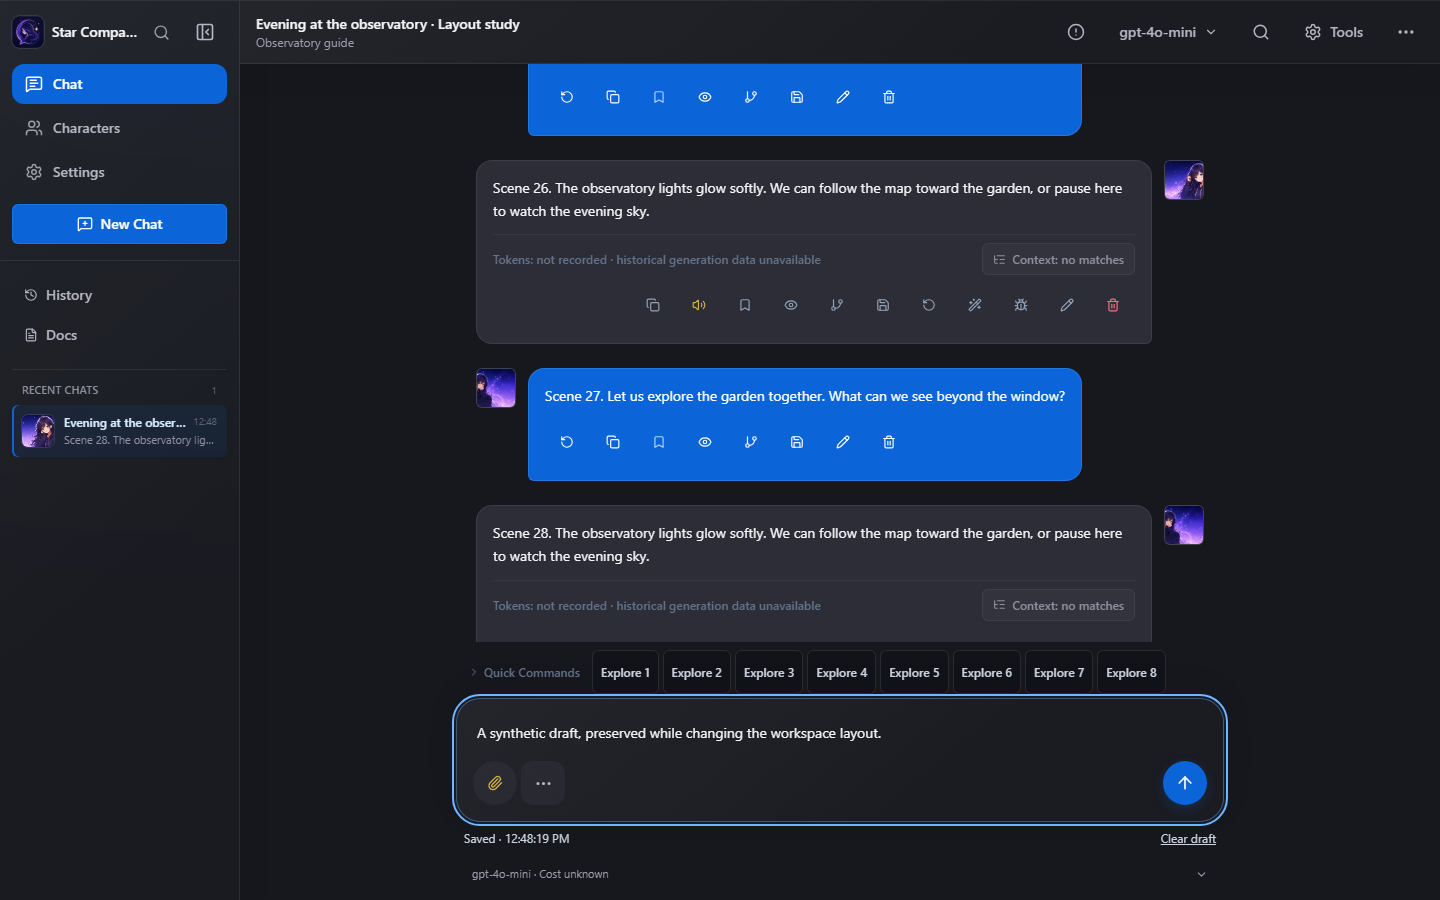
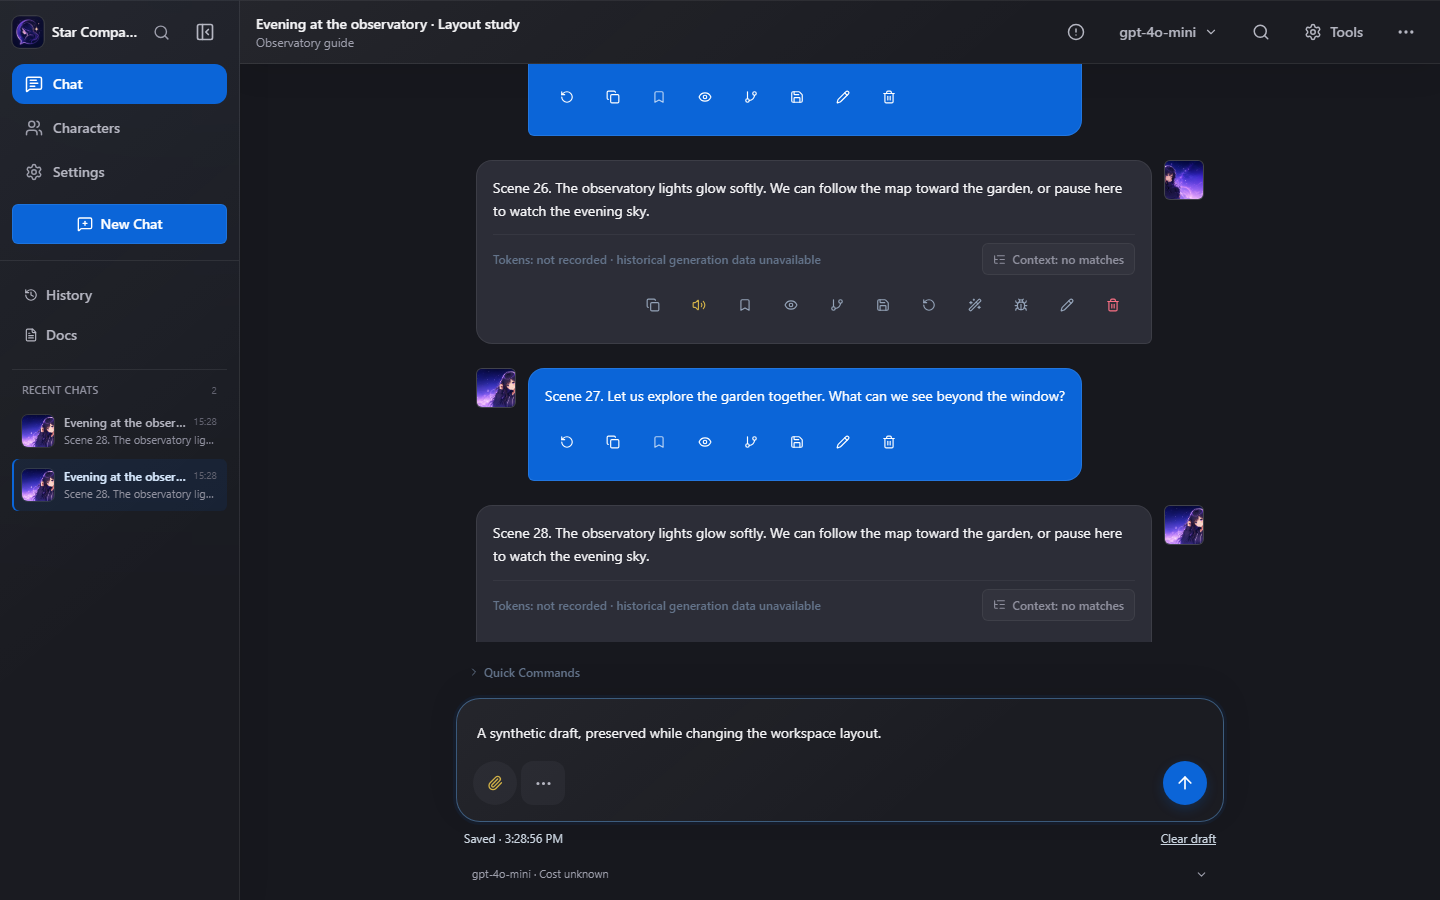
fix: hide collapsed quick commands and animate expansion

diff --git a/apps/web/src/pages/DocsPage.tsx b/apps/web/src/pages/DocsPage.tsx
@@ -178,7 +178,7 @@ const getDocsCopy = (language: string): DocsCopy => {
             },
             {
               title: "阅读与输入",
-              body: "快捷回复默认单行，可展开。图片在输入框上方；输入框自动增高至当前视口上限，之后内部滚动。圆角输入卡片下方保留图片、更多工具和发送按钮；语音与生图收在更多工具中，草稿状态和可展开费用位于卡片外。队列默认显示数量，展开后可编辑、删除或立即发送；草稿错误和预算警告不会随费用详情隐藏。可见高度不足时，附件／队列区和状态／恢复／费用区可分别滚动，也可用键盘聚焦，保留输入和发送空间。"
+              body: "快捷指令默认折叠，不显示选项；点击标题后展开。图片在输入框上方；输入框自动增高至当前视口上限，之后内部滚动。圆角输入卡片下方保留图片、更多工具和发送按钮；语音与生图收在更多工具中，草稿状态和可展开费用位于卡片外。队列默认显示数量，展开后可编辑、删除或立即发送；草稿错误和预算警告不会随费用详情隐藏。可见高度不足时，附件／队列区和状态／恢复／费用区可分别滚动，也可用键盘聚焦，保留输入和发送空间。"
             },
             {
               title: "发送与停止",
@@ -554,7 +554,7 @@ const getDocsCopy = (language: string): DocsCopy => {
           },
           {
             title: "Reading and composing",
-            body: "Quick replies use one expandable row. Images sit above the growing input; image, More tools and send controls sit inside the rounded input card, with draft status and expandable costs below the card. The input scrolls internally at its viewport limit. Expand the queue count to edit, discard or send pending snapshots. Draft errors and budget warnings remain visible when cost details are collapsed. At low visible heights, attachment/queue and status/recovery/cost regions scroll independently and can receive keyboard focus, keeping space for input and sending."
+            body: "Quick commands start collapsed with no options shown; open the heading to see them. Images sit above the growing input; image, More tools and send controls sit inside the rounded input card, with draft status and expandable costs below the card. The input scrolls internally at its viewport limit. Expand the queue count to edit, discard or send pending snapshots. Draft errors and budget warnings remain visible when cost details are collapsed. At low visible heights, attachment/queue and status/recovery/cost regions scroll independently and can receive keyboard focus, keeping space for input and sending."
           },
           {
             title: "Story paths",

diff --git a/apps/web/e2e/known-issues.spec.ts b/apps/web/e2e/known-issues.spec.ts
@@ -19,20 +19,25 @@ test("quick commands expand to show choices and collapse again", async ({ page, 
     const toggle = page.locator("#chat-quick-replies-toggle");
     await expect(toggle).toBeVisible();
     const list = page.getByTestId("chat-quick-replies-list");
-    const collapsedHeight = (await list.boundingBox())!.height;
     await expect(toggle).toHaveAttribute("aria-expanded", "false");
+    await expect(list).toHaveCount(0);
+    await expect(page.locator("[data-chat-quick-reply]")).toHaveCount(0);
     await toggle.click();
     await expect(toggle).toHaveAttribute("aria-expanded", "true");
+    expect(await list.evaluate((element) => getComputedStyle(element).animationName)).toBe("quick-replies-enter");
     const expandedBox = (await list.boundingBox())!;
     const lastChoice = page.locator("[data-chat-quick-reply]").last();
     const lastBox = (await lastChoice.boundingBox())!;
-    expect(expandedBox.height).toBeGreaterThan(collapsedHeight);
+    await expect(page.locator("[data-chat-quick-reply]")).toHaveCount(12);
     expect(lastBox.y + lastBox.height).toBeLessThanOrEqual(expandedBox.y + expandedBox.height + 1);
     await toggle.click();
     await expect(toggle).toHaveAttribute("aria-expanded", "false");
-    expect((await list.boundingBox())!.height).toBeLessThanOrEqual(collapsedHeight + 1);
+    await expect(list).toHaveCount(0);
+    await expect(page.locator("[data-chat-quick-reply]")).toHaveCount(0);
     await page.setViewportSize({ width: 320, height: 568 });
+    await page.evaluate(() => { document.documentElement.dataset.motion = "reduced"; });
     await toggle.click();
+    expect(await list.evaluate((element) => getComputedStyle(element).animationName)).toBe("none");
     await lastChoice.scrollIntoViewIfNeeded();
     await lastChoice.click();
     await expect(page.locator("#chat-message-input")).toHaveValue("Choice 12");

diff --git a/apps/web/src/pages/ChatPage.tsx b/apps/web/src/pages/ChatPage.tsx
@@ -4551,15 +4551,13 @@ export function ChatPage({
                             />
                             {t("chat.quickReplies")}
                           </button>
-                          <div
-                            className="min-w-0 flex-1 overflow-x-auto"
-                          >
+                          {quickRepliesOpen ? <div className="min-w-0 flex-1 overflow-x-auto">
                             <div
                               data-testid="chat-quick-replies-list"
-                              className={`flex gap-1 ${quickRepliesOpen ? "max-h-[min(32dvh,16rem)] flex-wrap overflow-y-auto overscroll-contain" : "flex-nowrap"}`}
-                              tabIndex={quickRepliesOpen ? 0 : undefined}
-                              role={quickRepliesOpen ? "region" : undefined}
-                              aria-label={quickRepliesOpen ? t("chat.quickReplies") : undefined}
+                              className="quick-replies-enter flex max-h-[min(32dvh,16rem)] flex-wrap gap-1 overflow-y-auto overscroll-contain"
+                              tabIndex={0}
+                              role="region"
+                              aria-label={t("chat.quickReplies")}
                             >
                               {activeQuickReplies.map((qr) => (
                                 <button
@@ -4577,7 +4575,7 @@ export function ChatPage({
                                 </button>
                               ))}
                             </div>
-                          </div>
+                          </div> : null}
                         </div>
                       ) : null}
                       <div

diff --git a/apps/web/e2e/workspace-layout.spec.ts b/apps/web/e2e/workspace-layout.spec.ts
@@ -45,11 +45,13 @@ test("workspace layout capture uses synthetic data across target viewports", asy
       await page.evaluate(() => document.fonts.ready);
       await page.screenshot({ path: path.join(output, `${width}x${height}.png`), scale: "css" });
       if (phase === "after") {
-        await expect(page.locator("[data-chat-quick-reply]")).toHaveCount(8);
+        await expect(page.locator("[data-chat-quick-reply]")).toHaveCount(0);
         await expect(page.locator("#chat-quick-replies-toggle")).toHaveAttribute("aria-expanded", "false");
         await page.locator("#chat-quick-replies-toggle").click();
         await expect(page.locator("#chat-quick-replies-toggle")).toHaveAttribute("aria-expanded", "true");
+        await expect(page.locator("[data-chat-quick-reply]")).toHaveCount(8);
         await page.locator("#chat-quick-replies-toggle").click();
+        await expect(page.locator("[data-chat-quick-reply]")).toHaveCount(0);
         expect(await page.evaluate(() => document.documentElement.scrollWidth <= innerWidth)).toBe(true);
         await expect(page.getByTestId("chat-workspace-header")).toHaveCount(1);
         await expect.poll(() => page.evaluate(() => Math.abs(document.querySelector("#chat-message-list")!.getBoundingClientRect().width - document.querySelector("#chat-composer")!.getBoundingClientRect().width))).toBeLessThan(2);

diff --git a/apps/web/src/styles.css b/apps/web/src/styles.css
@@ -121,6 +121,13 @@ select option { background: var(--surface); color: var(--foreground); }
   from { opacity: 0; }
   to { opacity: 1; }
 }
+@keyframes quick-replies-enter {
+  from { opacity: 0; transform: translateX(-16px); }
+  to { opacity: 1; transform: translateX(0); }
+}
+.quick-replies-enter {
+  animation: quick-replies-enter .24s cubic-bezier(.2,.8,.2,1) both;
+}
 
 @supports ((backdrop-filter: blur(1px)) or (-webkit-backdrop-filter: blur(1px))) {
   .native-app [data-testid="desktop-sidebar"], .native-app .native-page-header,

diff --git a/docs/chat-workspace-acceptance.md b/docs/chat-workspace-acceptance.md
@@ -11,7 +11,7 @@ character editor are not part of this goal. This audit records evidence, not int
 | Reading anchor, bounded history, pagination/search | `useChatLayoutAnchor` compensates layout changes; layout test checks tool/sidebar/font changes within 3px; app tests exercise history pagination and search | Passed |
 | Header/menu paths and destructive actions | Model/search/Tools/More, mobile menu/title/search/More; legacy selectors retained; separate archive/trash confirmations | Passed |
 | Unified tools, edits and Agent draft | Layout test preserves memory-turn edits and Agent focus input; Agent app test preserves generated draft across tool changes and reopening, asserts one request, then applies candidate explicitly | Passed, including tool-content lock assertion |
-| Composer order, quick replies, images, queue, status/cost | Quick replies render eight stable-ID items, default collapsed; ordered images above text and toolbar; queue/cost disclosures; draft suites cover failure/conflict/expiry/handoffs | Passed, including large-font queue and low-height cost disclosure |
+| Composer order, quick replies, images, queue, status/cost | Quick replies hide their options by default and render eight stable-ID items when expanded; ordered images above text and toolbar; queue/cost disclosures; draft suites cover failure/conflict/expiry/handoffs | Passed, including large-font queue and low-height cost disclosure |
 | Small viewport and dynamic height | Stress test uses 320px, large font, two images, long draft and simulated 360px visualViewport; verifies bounds, retained draft and image reordering | Real keyboard unavailable; see limitation below |
 | Actual desktop zoom | Extension sets/reads tab zoom 2; verifies innerWidth 1440→720, visible composer and drawer; explicit desktop context in both test projects | Passed |
 | Themes, contrast, reduced motion and character CSS | Light/dark extra-large high-contrast/reduced-motion captures, axe controls/labels/contrast; hostile structural CSS fixture cannot hide composer | Passed |

diff --git a/README.md b/README.md
@@ -24,7 +24,7 @@ display, positioning, sizing or transforms. Restricted/off modes remain availabl
 - More contains rename, title suggestions, bookmarks, export, background, archive
   and move-to-trash; destructive actions still require confirmation.
 - Images precede the growing text input; media/send controls and draft status
-  follow it. Quick replies use one expandable row; queue and cost details can be
+  follow it. Quick commands hide their options until expanded; queue and cost details can be
   expanded. Budget warnings and draft errors remain visible.
   At low visible heights, attachment/queue and status/recovery/cost regions scroll
   independently; the text input and send controls keep their space. These regions
